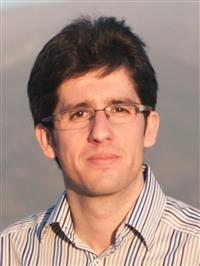
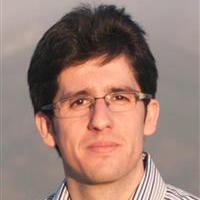
Fixed speaker image alignment

diff --git a/speakers.html b/speakers.html
@@ -33,13 +33,14 @@ layout: base
 
             <div class="row">
 
+            {% assign numspeakers = 0 %}
             {% for speaker in site.speakers %}
 
                 <div class="col-md-3 col-sm-3">
                     <div class="team-member" data-animate="fadeInUp">
                         <div class="image">
                             <a href="{{ speaker.url | prepend: site.github.url }}">
-                                <img src="speakers/{{speaker.image}}" alt="" style="max-height:220px" class="img-responsive img-circle center-block">
+                                <img src="speakers/{{speaker.image}}" alt="" style="max-height:200px" class="img-responsive img-circle center-block">
                             </a>
                         </div>
                         <h3><a href="{{ speaker.url | prepend: site.github.url }}">{{speaker.fullname}}</a></h3>
@@ -54,6 +55,12 @@ layout: base
                     </div>
                     <!-- /.team-member -->
                 </div>
+
+                {% capture numspeakers %}{{ numspeakers | plus: 1 }}{% endcapture %}
+                {% if numspeakers == "4" %}
+                    </div><div class="row">
+                    {% assign numspeakers = 0  %}
+                {% endif %}
 
             {% endfor %}
 

diff --git a/_layouts/speaker.html b/_layouts/speaker.html
@@ -30,12 +30,12 @@ layout: base
             </div>
 
             <div class="row">
-                <div class="col-md-8">
+                <div class="col-sm-8">
                         {{ content }}
 
                 </div>
 
-                <div class="col-md-4">
+                <div class="col-sm-4">
                     <img class="img-responsive img-circle" alt="" src="{{ page.image }}">
                 </div>
             </div>
